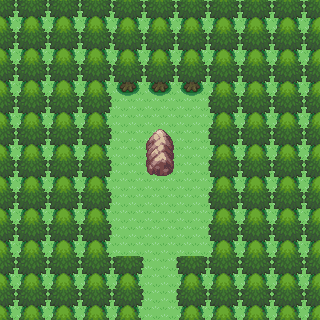
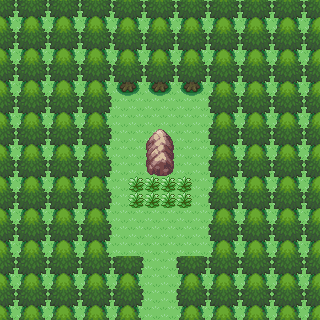
Grass tiles and first part of wild pokemon event

Changed region(s): [[0.4062, 0.5312, 0.5938, 0.6562]]

diff --git a/src/core/enums/TileMovements.java b/src/core/enums/TileMovements.java
@@ -1,25 +1,37 @@
 package core.enums;
 
 import java.awt.Color;
+import java.util.ArrayList;
+import java.util.List;
 
 import jutils.gui.Colors;
+import lombok.Getter;
 
+@Getter
 public enum TileMovements {
 
 	OBSTACLE(-1, Colors.convertRGBToARGB(Color.red, 128)),
 	WALK_0(0, Colors.convertRGBToARGB(Colors.gray(224), 128)),
 	WALK_1(1, Colors.convertRGBToARGB(Colors.gray(192), 128)),
 	WALK_2(2, Colors.convertRGBToARGB(Colors.gray(160), 128)),
-	WALK_3(3, Colors.convertRGBToARGB(Colors.gray(128), 128));
+	WALK_3(3, Colors.convertRGBToARGB(Colors.gray(128), 128)),
+	WP_GRASS(4, Colors.convertRGBToARGB(Color.green, 128));
 	
 	
-	private static final TileMovements[] CAN_MOVE_TO = new TileMovements[] {
-			WALK_0,
-			WALK_1,
-			WALK_2,
-			WALK_3
-	};
+	private static final List<TileMovements> CAN_MOVE;
+	private static final List<TileMovements> CAN_SPAWN;
 	
+	static {
+		CAN_MOVE = new ArrayList<>();
+		CAN_MOVE.add(WALK_0);
+		CAN_MOVE.add(WALK_1);
+		CAN_MOVE.add(WALK_2);
+		CAN_MOVE.add(WALK_3);
+		CAN_MOVE.add(WP_GRASS);
+		
+		CAN_SPAWN = new ArrayList<>();
+		CAN_SPAWN.add(WP_GRASS);
+	}
 	
 	
 	int value;
@@ -38,6 +50,9 @@ public enum TileMovements {
 		return value == move.value;
 	}
 	
+	/*
+	 * Statics
+	 */
 	
 	public static int getFromName(String name) {
 		return TileMovements.valueOf(name).value;
@@ -52,12 +67,19 @@ public enum TileMovements {
 		return null;
 	}
 	
-	public static boolean canMoveTo(int value) {
-		for(TileMovements move : CAN_MOVE_TO) {
-			if(value == move.value)
-				return true;
-		}
-		
-		return false;
+	public static boolean canMove(TileMovements tile) {
+		return CAN_MOVE.contains(tile);
+	}
+	
+	public static boolean canMove(int value) {
+		return canMove(getFromValue(value));
+	}
+	
+	public static boolean canSpawn(TileMovements tile) {
+		return CAN_SPAWN.contains(tile);
+	}
+	
+	public static boolean canSpawn(int value) {
+		return canSpawn(getFromValue(value));
 	}
 }

diff --git a/src/core/gui/screen/content/exploration/painters/ExplorationPainter.java b/src/core/gui/screen/content/exploration/painters/ExplorationPainter.java
@@ -16,10 +16,14 @@ import core.obj.maps.autotiles.AutoTile;
 import core.obj.maps.autotiles.MapAutoTiles;
 import core.obj.maps.entities.MapEntities;
 import core.obj.maps.images.MapImages;
+import lombok.Setter;
 
 public class ExplorationPainter extends Painter<Exploration> {
 	
 	private final OnMapChangeLabel onMapChange;
+	@Setter
+	private boolean isMovingDown;
+	
 	
 	public ExplorationPainter(Exploration parent) {
 		super(parent);
@@ -43,12 +47,14 @@ public class ExplorationPainter extends Painter<Exploration> {
 			
 			g.drawImage(mImages.get(0).getImage(), mLoc.x, mLoc.y, null);
 			
-			//Drawing autotiles
+			//Drawing bottom autotiles
 			MapAutoTiles autoTiles = map.getAutoTiles();
 			for(AutoTile at : autoTiles) {
-				XYLocation atLoc = at.getLoc();
-				
-				g.drawImage(at.getImage().getImage(), atLoc.x, atLoc.y, null);
+				if(at.getType() == AutoTile.TYPE_BOTTOM) {
+					XYLocation atLoc = at.getLoc();
+					
+					g.drawImage(at.getImage().getImage(), atLoc.x, atLoc.y, null);
+				}
 			}
 		}
 		
@@ -70,6 +76,16 @@ public class ExplorationPainter extends Painter<Exploration> {
 					x = eLoc.x - ContentSettings.tileSize*eImage.getHorTilesDelta();
 					y = eLoc.y - ContentSettings.tileSize*eImage.getVerTilesDelta();
 					g.drawImage(eImage.getImage(), x, y, null);
+				}
+			}
+			
+			//Drawing top autotiles if no entity behind it
+			MapAutoTiles autoTiles = map.getAutoTiles();
+			for(AutoTile at : autoTiles) {
+				if(at.getType() == AutoTile.TYPE_TOP && !isMovingDown && !mEntities.hasEntityInPos(at.getPos().relative(0, 0))) {
+					XYLocation atLoc = at.getLoc();
+					
+					g.drawImage(at.getImage().getImage(), atLoc.x, atLoc.y, null);
 				}
 			}
 			

diff --git a/src/core/obj/maps/autotiles/MapAutoTiles.java b/src/core/obj/maps/autotiles/MapAutoTiles.java
@@ -41,15 +41,26 @@ public class MapAutoTiles extends ArrayList<AutoTile> {
 					args = br.readLine().split(";");
 				}
 				
-				int numOfSprite = Integer.parseInt(args[0]);
+				char typeChar = args[0].charAt(0);
+				int type;
+				switch (typeChar) {
+				case 'T':
+					type = AutoTile.TYPE_TOP;
+					break;
+				default:
+					type = AutoTile.TYPE_BOTTOM;
+					break;
+				}
+				
+				int numOfSprite = Integer.parseInt(args[1]);
 				int times = numOfSprite;
-				int delay = Integer.parseInt(args[1]);
+				int delay = Integer.parseInt(args[2]);
 				
 				
 				String[] posString = n.valueOf("@pos").split(",");
 				GridPosition pos = new GridPosition(Integer.parseInt(posString[0]), Integer.parseInt(posString[1]));
 				
-				AutoTile at = new AutoTile(resName, image, times, numOfSprite, delay);
+				AutoTile at = new AutoTile(resName, image, type, times, numOfSprite, delay);
 				spawn(at, pos);
 				Log.log("Added AutoTile '" + at.getResName() + "' at pos: " + at.getPos());
 			}

diff --git a/src/core/obj/maps/Map.java b/src/core/obj/maps/Map.java
@@ -10,6 +10,7 @@ import core.obj.maps.links.MapLinks;
 import core.obj.maps.movements.MapMovements;
 import core.obj.maps.scripts.MapScripts;
 import core.obj.maps.tileentities.MapTileEntities;
+import core.obj.maps.wild.MapWild;
 import lombok.Getter;
 
 @Getter
@@ -22,6 +23,7 @@ public class Map {
 	private final MapAutoTiles autoTiles;
 	private final MapScripts scripts;
 	private final MapTileEntities tileEntities;
+	private final MapWild wild;
 	private MapLinks links;
 	
 	
@@ -33,6 +35,7 @@ public class Map {
 		autoTiles = new MapAutoTiles(this, root.selectSingleNode("autotiles"));
 		scripts = new MapScripts(this, root.selectSingleNode("scripts"));
 		tileEntities = new MapTileEntities(this, root.selectSingleNode("scripts"));
+		wild = new MapWild(this, root.selectSingleNode("wilds"));
 	}
 	
 	

diff --git a/src/core/obj/maps/autotiles/AutoTile.java b/src/core/obj/maps/autotiles/AutoTile.java
@@ -10,7 +10,12 @@ import lombok.Setter;
 
 @Getter
 public class AutoTile extends Animation {
+
+	public static final int TYPE_BOTTOM = 0;
+	public static final int TYPE_TOP = 1;
 	
+	
+	private final int type;
 	private final String resName;
 	@Setter
 	protected GridPosition originalPos;
@@ -21,8 +26,9 @@ public class AutoTile extends Animation {
 	private final TiledImage sourceImage;
 	
 	
-	public AutoTile(String resName, TiledImage sourceImage, int times, int numOfSprite, int delay) {
+	public AutoTile(String resName, TiledImage sourceImage, int type, int times, int numOfSprite, int delay) {
 		super(times, numOfSprite, delay);
+		this.type = type;
 		this.resName = resName;
 		this.sourceImage = sourceImage;
 		

diff --git a/src/core/obj/maps/MapUtils.java b/src/core/obj/maps/MapUtils.java
@@ -87,14 +87,9 @@ public class MapUtils {
 		}
 		
 //		System.out.println(entity.getData().getName() + ": " + new GridPosition(nextRow, nextColumn) + " - " + grid.length + "," + grid[0].length);
-		if(TileMovements.canMoveTo(grid[nextRow][nextColumn])) {
+		if(TileMovements.canMove(grid[nextRow][nextColumn])) {
 			GridPosition newPos = new GridPosition(nextRow, nextColumn);
-			for(OverworldEntity e : activeMap.getEntities()) {
-				if(e.getData().getPos().equals(newPos) && e.getData().isVisible())
-					return false;
-			}
-			
-			return true;
+			return activeMap.getEntities().hasEntityInPos(newPos);
 		}
 					
 		return false;

diff --git a/src/core/gui/screen/content/pokedex/keypresshandlers/PokedexArrowKeyEvent.java b/src/core/gui/screen/content/pokedex/keypresshandlers/PokedexArrowKeyEvent.java
@@ -2,7 +2,6 @@ package core.gui.screen.content.pokedex.keypresshandlers;
 
 import core.enums.GameStates;
 import core.events.GlobalKeyEvent;
-import core.files.SoundsHandler;
 import jutils.threads.Threads;
 
 public class PokedexArrowKeyEvent extends GlobalKeyEvent {
@@ -24,7 +23,7 @@ public class PokedexArrowKeyEvent extends GlobalKeyEvent {
 		exec = true;
 		thread = Threads.run(() -> {
 			do {
-				SoundsHandler.playSound(SoundsHandler.PRESS);
+//				SoundsHandler.playSound(SoundsHandler.PRESS);
 				ref.run();
 				try {
 					Thread.sleep(100);

diff --git a/src/core/obj/maps/entities/MapEntities.java b/src/core/obj/maps/entities/MapEntities.java
@@ -200,6 +200,15 @@ public class MapEntities extends ArrayList<OverworldEntity> {
 		add(pos1, temp);
 	}
 	
+	public boolean hasEntityInPos(GridPosition pos) {
+		for(OverworldEntity e : this) {
+			if(e.getData().getPos().equals(pos) && e.getData().isVisible())
+				return false;
+		}
+		
+		return true;
+	}
+	
 	
 	@Override
 	public String toString() {

diff --git a/src/core/gui/GridPosition.java b/src/core/gui/GridPosition.java
@@ -61,4 +61,9 @@ public class GridPosition {
 	private boolean after(GridPosition pos) {
 		return row > pos.row || (row == pos.row && column > pos.column);
 	}
+	
+	public GridPosition relative(int rows, int columns) {
+		return new GridPosition(this.row + rows, this.column + columns);
+	}
+	
 }
